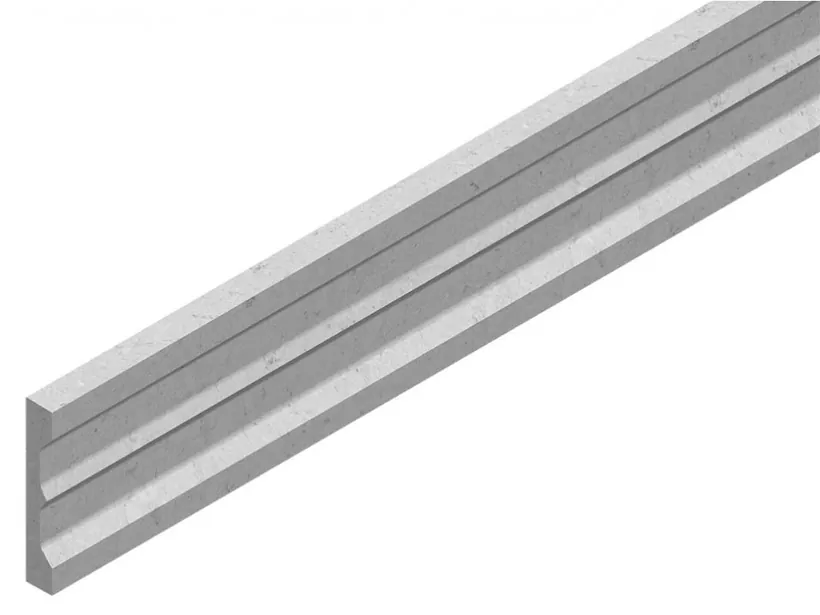
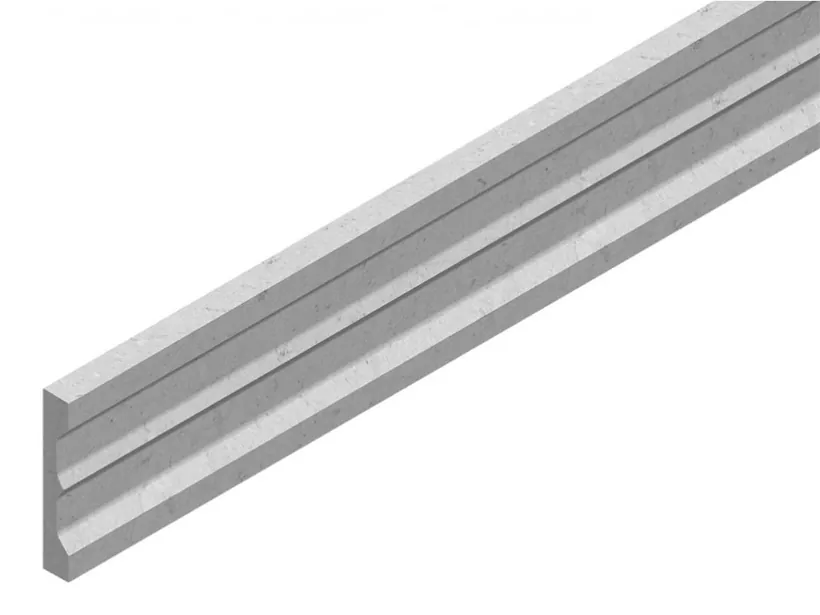
Real install/concrete photos, remove plný betón, polish chips/steps
Per user image-by-image approval:
- Betónový plot: mojplot.sk only sells the decorative (okrasný) concrete
  fence, so the 'Plný betónový plot' option is removed. Selecting the
  concrete product auto-uses the decorative path; step 1 is now a clear
  intro. Product card uses the decorative concrete photo.
- Montáž (3D, krok 8): 'na kľúč' shows a real installation photo (with
  machinery); 'sám' shows a finished fence. New mojplot-montaz-kluc.webp
  and mojplot-plot-hotovy.webp.
- Montáž typ + betónová montáž: 'Betónovanie do zeme' now uses a real
  photo of a fence on a concrete base (mojplot-plot-podmurovka.webp)
  instead of the crude SVG diagram; the SVG is removed.
- Podhrabová doska: refreshed with the cleaner official product photo.
- Photos sourced from mojplot.sk's own product/realization galleries.

https://claude.ai/code/session_01LYDp7ZACXa2U1CJ5zHTGtP

diff --git a/widgetmp.html b/widgetmp.html
@@ -2749,8 +2749,8 @@ function mpPhoto(file){
 var PRODUCTS = [
   { id:'3d-plot', name:'3D panelový plot', nameEn:'3D panel fence', desc:'Cenová kalkulačka', descEn:'Price calculator',
     img:mpPhoto('mojplot-farby-3d-panel.webp'), badge:'KALKULAČKA' },
-  { id:'betonovy', name:'Betónový plot', nameEn:'Concrete fence', desc:'Maximálne súkromie a odolnosť', descEn:'Maximum privacy and durability',
-    img:mpPhoto('mojplot-beton-vzor-skala.webp'), badge:'NA DOPYT' }
+  { id:'betonovy', name:'Betónový plot', nameEn:'Concrete fence', desc:'Okrasný betón – maximálne súkromie', descEn:'Decorative concrete – maximum privacy',
+    img:mpPhoto('mojplot-beton-pohladovy.webp'), badge:'NA DOPYT' }
 ];
 
 /* Cenníky (orientačné, za 1 panel 250cm, vrátane povrchovej úpravy) */
@@ -3020,6 +3020,8 @@ function selectProduct(id){
   calcState.wallLength = null;
   calcState.wallHeight = null;
   calcState.blockWidth = null;
+  /* Betónový plot: mojplot.sk ponúka len okrasný (pohľadový) betón, plný v sortimente nie je */
+  if(id === 'betonovy'){ calcState.betType = 'pohladovy'; }
   calcState.step = 1;
   renderCalcStep();
 }
@@ -3580,21 +3582,17 @@ function renderCustomDesc(el){
    =================================================== */
 function renderBetStep1(el){
   var l = MC.lang==='sk';
-  var ico1 = '<svg viewBox="0 0 24 24"><path d="M3 4h18v3H3V4zm0 6h18v3H3v-3zm0 6h18v3H3v-3z"/></svg>';
-  var ico2 = '<svg viewBox="0 0 24 24"><path d="M3 4h18v16H3V4zm2 2v3h6V6H5zm8 0v3h6V6h-6zM5 11v3h6v-3H5zm8 0v3h6v-3h-6zM5 16v3h6v-3H5zm8 0v3h6v-3h-6z"/></svg>';
+  calcState.betType = 'pohladovy';
   el.innerHTML = '<div class="mc-step">' +
     cpStepPhoto('beton-typ') +
-    '<div class="mc-step-title">'+(l?'Typ betónového plotu':'Concrete fence type')+'</div>' +
-    '<div class="mc-step-sub">'+(l?'Po kliknutí sa hore zmení ukážka. Ďalej prejdete až po potvrdení.':'After clicking, the preview above updates. You continue only after confirmation.')+'</div>' +
-    '<div class="mc-cp-opts">' +
-      cpOpt('bt','plny', l?'Plný betónový plot':'Solid concrete fence', l?'Klasická plná stena, maximálne súkromie':'Classic solid wall, maximum privacy', ico1, calcState.betType, 'selBetType') +
-      cpOpt('bt','pohladovy', l?'Pohľadový betónový plot':'Decorative concrete fence', l?'Dekoratívna štruktúra: tehla, skala, vlnka, bridlica':'Decorative pattern - brick, stone, wave, slate', ico2, calcState.betType, 'selBetType') +
-    '</div>' +
+    '<div class="mc-step-title">'+(l?'Okrasný betónový plot':'Decorative concrete fence')+'</div>' +
+    '<div class="mc-step-sub">'+(l?'Dekoratívny betónový plot s reliéfnym vzorom – na výber máte vzory tehla, skala, vlnka a bridlica, jedno- alebo obojstranné prevedenie a 8 odtieňov.':'Decorative concrete fence with a relief pattern – choose from brick, stone, wave and slate patterns, single- or double-sided finish and 8 shades.')+'</div>' +
+    '<div class="mc-hint" style="margin-top:12px"><div class="hi">i</div><div>'+(l?'Maximálne súkromie a odolnosť. V ďalších krokoch si vyberiete vzor, prevedenie, výšku, odtieň a montáž.':'Maximum privacy and durability. In the next steps you will choose the pattern, finish, height, shade and mounting.')+'</div></div>' +
     '<div class="mc-actions"><button class="mc-btn-secondary" onclick="calcBack()">← '+(l?'Späť':'Back')+'</button><button class="mc-btn" onclick="confirmBetType()">'+(l?'Pokračovať':'Continue')+' →</button></div>' +
   '</div>';
 }
 function selBetType(v){ calcState.betType = v; rerenderCurrentCalcStep(); }
-function confirmBetType(){ if(!calcState.betType){ alert(MC.lang==='sk'?'Vyberte typ betónového plotu.':'Please select concrete fence type.'); return; } autoNext(); }
+function confirmBetType(){ calcState.betType = 'pohladovy'; autoNext(); }
 
 function renderBetPatternStep(el){
   var l = MC.lang==='sk';
@@ -4126,30 +4124,30 @@ function cpStepPhoto(slot){
           ['mojplot-stlpik-okruhly.webp','Okrúhly stĺpik','contain'],
           ['mojplot-stlpik-hranaty.webp','Hranatý stĺpik','contain']
         ]), 'Typ stĺpika', 'contain'],
-    'montaz-typ': [calcState.cpMounting === 'betono'
-      ? 'mojplot-betonovanie-do-zeme.svg'
-      : (calcState.cpMounting === 'kotvo' ? 'mojplot-kotvenie-beton.webp' : [
-          ['mojplot-betonovanie-do-zeme.svg','Betónovanie do zeme','contain'],
-          ['mojplot-kotvenie-beton.webp','Kotvenie na múrik','contain']
-        ]), 'Typ montáže', 'contain'],
+    'montaz-typ': calcState.cpMounting === 'betono'
+      ? ['mojplot-plot-podmurovka.webp','Betónovanie do zeme','cover']
+      : (calcState.cpMounting === 'kotvo'
+          ? ['mojplot-kotvenie-beton.webp','Kotvenie na múrik','contain']
+          : [['mojplot-plot-podmurovka.webp','Betónovanie do zeme','cover'],
+             ['mojplot-kotvenie-beton.webp','Kotvenie na múrik','contain']]),
     'podhrab': ['mojplot-podhrabova-doska.webp','Podhrabová doska','contain'],
     'brana': [
       ['mojplot-branka-3d.webp','Bránka','contain'],
       ['mojplot-brana-3d.webp','Brána','contain']
     ],
-    'montaz': [current3dColorPhoto(), 'Montáž', 'contain'],
-    'beton-typ': [
-      calcState.betType === 'plny' ? ['mojplot-beton-vzor-skala.webp','Plný betónový plot','cover'] : null,
-      calcState.betType === 'pohladovy' ? ['mojplot-beton-pohladovy.webp','Pohľadový betónový plot','cover'] : null,
-      !calcState.betType ? ['mojplot-beton-vzor-skala.webp','Plný betónový plot','cover'] : null,
-      !calcState.betType ? ['mojplot-beton-pohladovy.webp','Pohľadový betónový plot','cover'] : null
-    ].filter(Boolean),
+    'montaz': calcState.cpInstallation === 'kluc'
+      ? ['mojplot-montaz-kluc.webp','Montáž na kľúč','cover']
+      : (calcState.cpInstallation === 'sam'
+          ? ['mojplot-plot-hotovy.webp','Hotový plot – montáž svojpomocne','cover']
+          : [['mojplot-montaz-kluc.webp','Montáž na kľúč','cover'],
+             ['mojplot-plot-hotovy.webp','Hotový plot','cover']]),
+    'beton-typ': ['mojplot-beton-pohladovy.webp','Okrasný betónový plot','cover'],
     'beton-rozmer': [calcState.betType === 'plny' ? solidPhoto : currentBetPatternPhoto(), calcState.betType === 'plny' ? 'Plný betónový plot' : 'Pohľadový betónový plot', 'cover'],
     'beton-farba': [calcState.betType === 'plny' ? solidPhoto : currentBetPatternPhoto(), calcState.betType === 'plny' ? 'Plný betónový plot' : 'Vybraný vzor betónu', 'cover'],
     'beton-montaz': [
-      calcState.betMounting === 'betono' ? ['mojplot-betonovanie-do-zeme.svg','Betónovanie do zeme','contain'] : null,
+      calcState.betMounting === 'betono' ? ['mojplot-plot-podmurovka.webp','Betónovanie do zeme','cover'] : null,
       calcState.betMounting === 'kotvo' ? ['mojplot-kotvenie-beton.webp','Kotvenie na podmurovku','contain'] : null,
-      (!calcState.betMounting || calcState.betMounting === 'poradte') ? ['mojplot-betonovanie-do-zeme.svg','Betónovanie do zeme','contain'] : null,
+      (!calcState.betMounting || calcState.betMounting === 'poradte') ? ['mojplot-plot-podmurovka.webp','Betónovanie do zeme','cover'] : null,
       (!calcState.betMounting || calcState.betMounting === 'poradte') ? ['mojplot-kotvenie-beton.webp','Kotvenie na podmurovku','contain'] : null,
       ['mojplot-branka-3d.webp','Bránka','contain'],
       ['mojplot-brana-3d.webp','Brána','contain']